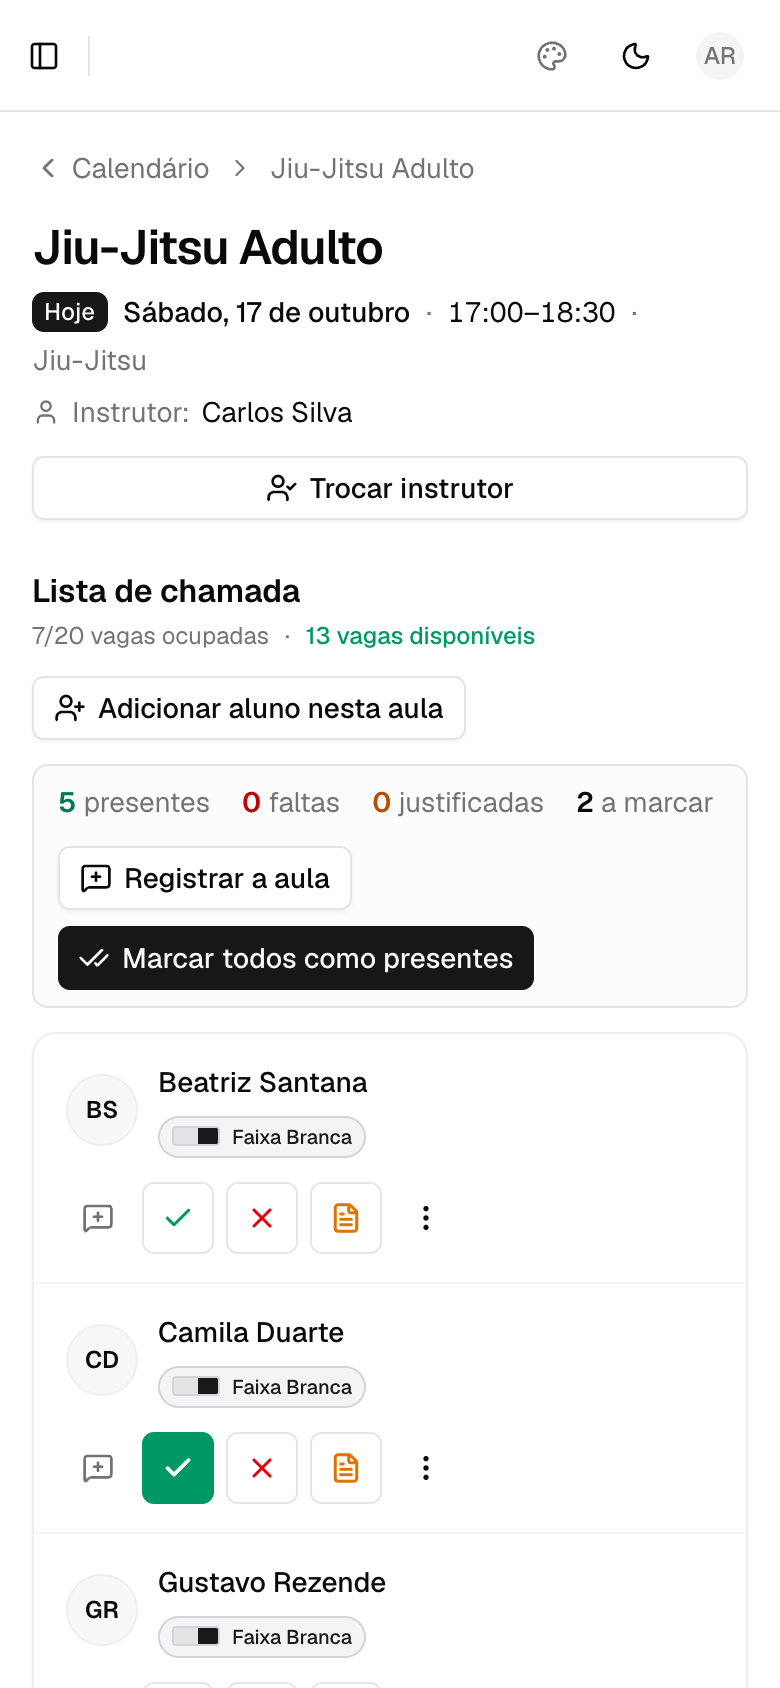
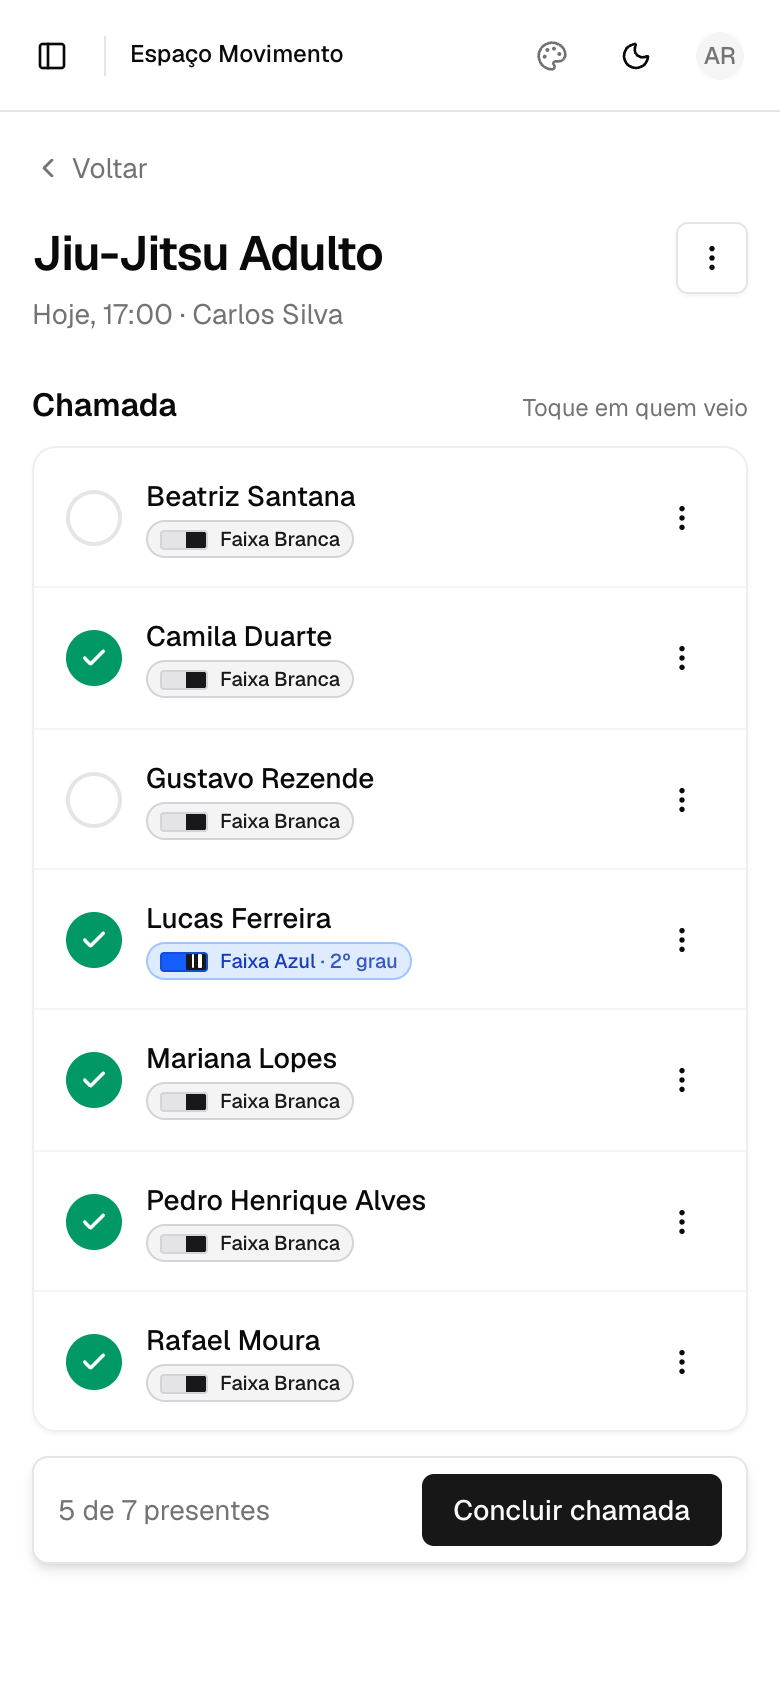
chore(landing): fresh app screenshots for the showcase
- Roll call, billing and student page captured again from the current
  screens, in light and dark.
- Capture script follows the new setup (picking the area moves on,
  "Concluir"), opens the student evolution section, starts the plans this
  month (no backfilled overdue months) and adds class records to the demo
  student. SHOTS=attendance,student redoes only some of them.

diff --git a/apps/web/scripts/landing-screenshots/capture.spec.ts b/apps/web/scripts/landing-screenshots/capture.spec.ts
@@ -53,9 +53,9 @@ async function buildDemo(page: Page) {
   await freshTenant(page);
   await page.getByLabel("Nome").fill("Espaço Movimento");
   await page.getByRole("button", { name: "Continuar" }).click();
+  // Escolher a area ja avanca para as aulas.
   await page.getByRole("radio", { name: /^Lutas/ }).click();
-  await page.getByRole("button", { name: "Continuar" }).click();
-  await page.getByRole("button", { name: "Concluir e Começar" }).click();
+  await page.getByRole("button", { name: "Concluir" }).click();
   await page.waitForURL("**/dashboard");
   await page.waitForTimeout(800);
   const modalities = (await readTenant(page)).categories as { id: string; name: string }[];
@@ -97,7 +97,8 @@ async function buildDemo(page: Page) {
       phone: `1198${String(1234567 + i * 7919).slice(0, 7)}`,
       birthDate: `199${i % 10}-0${(i % 9) + 1}-1${i % 9}`,
       planId: PLAN_OF[cg][0],
-      planStartDate: "2026-03-01",
+      // Plano a partir deste mes: os meses antes nao geram mensalidade atrasada.
+      planStartDate: `${MONTH}-01`,
       billingStrategy: "prorated",
       cyclePaymentTiming: "prepaid",
       dueDay,
@@ -115,7 +116,21 @@ async function buildDemo(page: Page) {
         promotedAt: "2026-03-14",
         strengths: ["Guarda fechada", "Raspagens", "Passagem de guarda"],
         goals: [],
-        evaluations: [],
+        // Registros de aula recentes (ficha com historico, nao vazia).
+        evaluations: [
+          { tone: "positive", note: "Boa base na guarda fechada.", classNote: "Raspagens da guarda aberta" },
+          { tone: "attention", note: "Ajustar a postura na passagem de guarda." },
+          { tone: "positive", note: "Finalizou bem no treino de posição." },
+        ].map((e, k) => ({
+          id: `ev-${k}`,
+          date: PAST[k],
+          classGroupId: "cg-jj",
+          classGroupName: "Jiu-Jitsu Adulto",
+          sessionId: `cg-jj~${PAST[k]}~${START}`,
+          authorName: "Carlos Silva",
+          createdAt: `${PAST[k]}T22:00:00.000Z`,
+          ...e,
+        })),
         promotionHistory: [],
         updatedAt: TS,
       },
@@ -163,7 +178,11 @@ async function buildDemo(page: Page) {
   await skipWelcomeDialog(page);
 }
 
+// SHOTS=attendance,student refaz so esses (padrao: todos).
+const ONLY = process.env.SHOTS?.split(",").map((s) => s.trim());
+
 async function shoot(page: Page, name: string, url: string, size: { width: number; height: number }) {
+  if (ONLY && !ONLY.includes(name)) return;
   await page.setViewportSize(size);
   for (const theme of ["light", "dark"]) {
     await page.evaluate((th) => localStorage.setItem("gestarahub:theme", th), theme);
@@ -187,5 +206,6 @@ test("telas da landing", async ({ page }) => {
   await buildDemo(page);
   await shoot(page, "attendance", `/classes/sessions/${encodeURIComponent(`cg-jj~${TODAY}~${START}`)}`, { width: 390, height: 844 });
   await shoot(page, "billing", "/classes/billing", { width: 1280, height: 800 });
-  await shoot(page, "student", "/clients/s-lucas", { width: 1280, height: 800 });
+  // Ficha em sanfona: abre a evolucao (faixa, graus e pontos fortes).
+  await shoot(page, "student", "/clients/s-lucas?tab=evolution", { width: 1280, height: 800 });
 });
